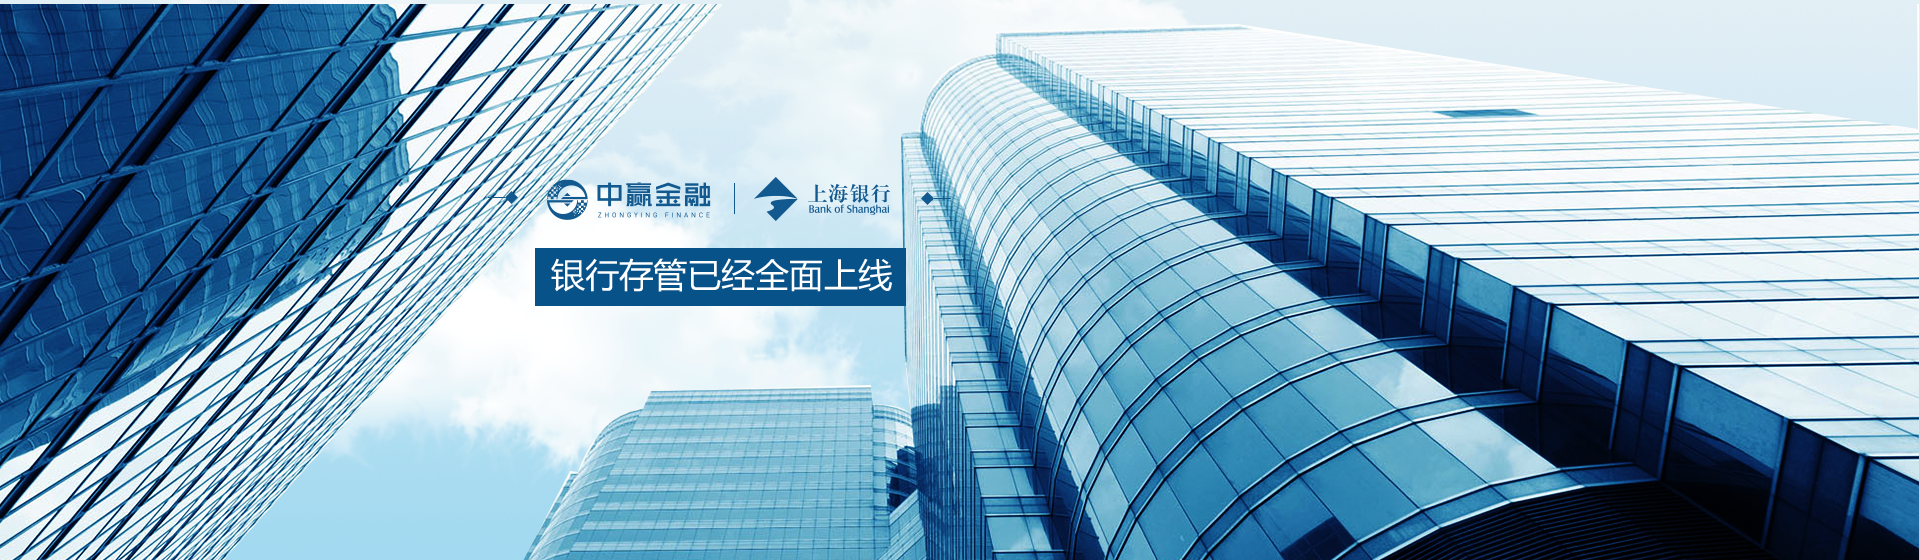
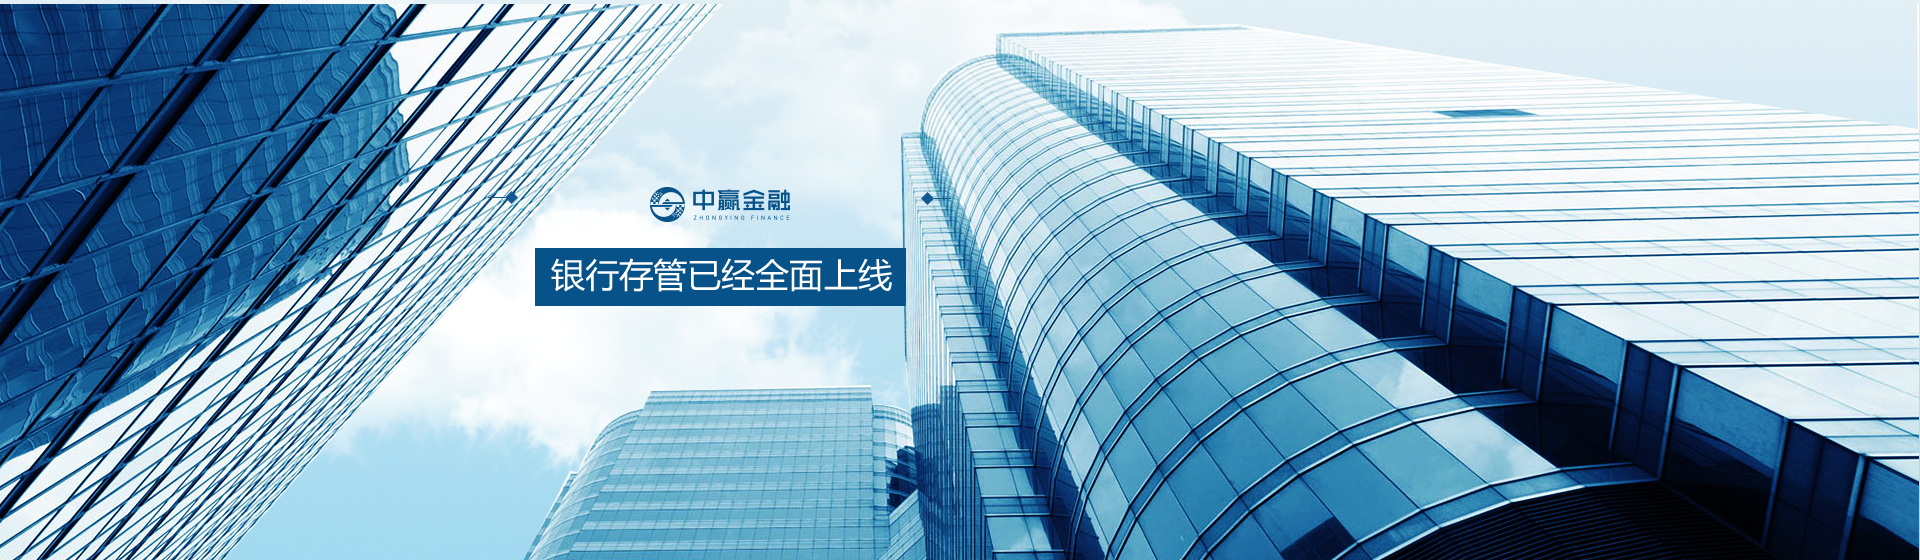
修改处理  上海银行

Changed region(s): [[0.2812, 0.3036, 0.4688, 0.3946]]

diff --git a/2.0_local_ZT_test/html/3/recharge.html b/2.0_local_ZT_test/html/3/recharge.html
@@ -105,7 +105,7 @@
 					<div>温馨提示</div>
 					<p>1、为了您的账户安全，请在充值前开通存管账户、设置交易密码。</p>
 					<p>2、代扣充值需要绑定银行卡，该卡可用于充值和提现。</p>
-					<p>3、您充值的资金会进入上海银行存管账户。</p>
+					<p>3、您充值的资金会进入银行存管账户。</p>
 					<p>4、请注意您的银行卡充值限制，以免造成不便。</p>
 					<p>5、禁止洗钱、信用卡套现、虚假交易等行为，一经发现并确认，将终止该账户的使用。</p>
 					<p>6、如果充值金额没有及时到账，请联系客服，400-088-0888。</p>
@@ -145,7 +145,7 @@
 					<div>温馨提示</div>
 					<p>1、为了您的账户安全，请在充值前开通存管账户、设置交易密码。</p>
 					<p>2、代扣充值需要绑定银行卡，该卡可用于充值和提现。</p>
-					<p>3、您充值的资金会进入上海银行存管账户。</p>
+					<p>3、您充值的资金会进入银行存管账户。</p>
 					<p>4、请注意您的银行卡充值限制，以免造成不便。</p>
 					<p>5、禁止洗钱、信用卡套现、虚假交易等行为，一经发现并确认，将终止该账户的使用。</p>
 					<p>6、如果充值金额没有及时到账，请联系客服，400-088-0888。</p>

diff --git a/2.0_local_ZT_test/js/3/changeCardNext.js b/2.0_local_ZT_test/js/3/changeCardNext.js
@@ -12,12 +12,18 @@ $(function() {
 	var bankName = ['工商银行', '农业银行', '招商银行', '建设银行', '北京银行', '北京农村', '中国银行', '交通银行', '民生银行', '上海银行', '渤海银行', '光大银行', '兴业银行', '中信银行', '浙商银行', '广发银行', '东亚银行', '华夏银行', '杭州银行', '南京银行', '平安银行', '邮储银行', '深发银行', '浦发银行', '上海农村'];
 	$(".bankLogoForm").html("");
 	for(var i = 100; i < 125; i++) {
-		var ctc = '<div class="bankListLogo">' +
-			'	<img class="bankListImg" src="../../img/bank/color/' + bankArr[i - 100] + '.png" >' +
-			'	<p class="bankName">' + bankName[i - 100] + '</p>' +
-			'	<input name="bank_id_" type="radio" value="' + i + '" />';
-		$(".bankListDiv").append(ctc)
-	}
+		switch(i) {
+			case 108:
+				break;
+			default:
+				var ctc = '<div class="bankListLogo">' +
+					'	<img class="bankListImg" src="../../img/bank/color/' + bankArr[i - 100] + '.png" >' +
+					'	<p class="bankName">' + bankName[i - 100] + '</p>' +
+					'	<input name="bank_id_" type="radio" value="' + i + '" />';
+				$(".bankListDiv").append(ctc)
+				break;
+		}
+	};
 	$(".bankIputKeybtn").on("click", function() {
 		$(".bankList").slideDown(300);
 	});

diff --git a/2.0_local_ZT_test/html/3/securityCenter.html b/2.0_local_ZT_test/html/3/securityCenter.html
@@ -70,7 +70,7 @@
 				<div class="asList asList11">
 					<div>
 						<p>存管账户</p>
-						<p>中赢金融与上海银行合作资金存管</p>
+						<p>中赢金融与银行合作资金存管</p>
 					</div>
 					<div>未开通</div>
 					<div class="openSHaccount">立即开通</div>
@@ -136,7 +136,7 @@
 				<p class="planBidTiltle2"><span>开通存管账户</span> <button style="margin-left: 3.18rem;font-size: 0.4rem;" type="button" class="am-close am-close-spin">&times;</button></p>
 				<div class="autoThenderCenter">
 					<p>确认开通存管账户？</p>
-					<p>交易资金由上海银行全程存管，为保障您的账户资金安全，请设置存管账户交易密码。</p>
+					<p>交易资金由银行全程存管，为保障您的账户资金安全，请设置存管账户交易密码。</p>
 					<div class="autoThenderBtn">
 						<p class="closeP">再想想</p>
 						<p>

diff --git a/2.0_local_ZT_test/html/4/messageAPutOnRecord.html b/2.0_local_ZT_test/html/4/messageAPutOnRecord.html
@@ -50,7 +50,7 @@
 	</div>
 	<div class="messageABasicWrap clearfix">
 		<div class="messageALeft messageALeftRT">客户资金存管情况：</div>
-		<div class="messageARight messageARightRT">中赢金融已于2017年8月完成与上海银行股份有限公司存管系统的对接，宣告资金存管系统正式上线。存管上线后，资金更安全，投资更安心。</div>
+		<div class="messageARight messageARightRT">中赢金融已于2017年8月完成与银行存管系统的对接，宣告资金存管系统正式上线。存管上线后，资金更安全，投资更安心。</div>
 	</div>
 	<div class="messageABasicWrap clearfix">
 		<div class="messageALeft messageALeftRT">公安机关核发的网站备案编号：</div>

diff --git a/2.0_local_ZT_test/js/3/securityCenter.js b/2.0_local_ZT_test/js/3/securityCenter.js
@@ -25,7 +25,7 @@ $(function() {
 			$(".asList3").html("");
 			var ctc1 = '<div>' +
 				'	<p>存管账户</p>' +
-				'	<p>中赢金融与上海银行合作资金存管</p>' +
+				'	<p>中赢金融与银行合作资金存管</p>' +
 				'</div>' +
 				'<div>未开通</div>' +
 				'<div class="openSHaccount">立即开通</div>';
@@ -76,7 +76,7 @@ $(function() {
 						$(".asList3").html("");
 						var ctc1 = '<div>' +
 							'	<p>存管账户</p>' +
-							'	<p>中赢金融与上海银行合作资金存管</p>' +
+							'	<p>中赢金融与银行合作资金存管</p>' +
 							'</div>' +
 							'<div>已开通</div>' +
 							'<div>' + data.model.UsrCustId + '</div>';

diff --git a/2.0_local_ZT_test/html/2/bidStandardDetial.html b/2.0_local_ZT_test/html/2/bidStandardDetial.html
@@ -226,7 +226,7 @@
 				<p class="planBidTiltle2"><span>开通存管账户</span> <button style="margin-left: 3.18rem;font-size: 0.4rem;" type="button" class="am-close am-close-spin">&times;</button></p>
 				<div class="autoThenderCenter">
 					<p>确认开通存管账户？</p>
-					<p>交易资金由上海银行全程存管，为保障您的账户资金安全，请设置存管账户交易密码。</p>
+					<p>交易资金由银行全程存管，为保障您的账户资金安全，请设置存管账户交易密码。</p>
 					<div class="autoThenderBtn">
 						<p class="closeP">再想想</p>
 						<p>

diff --git a/2.0_local_ZT_test/html/2/planBidDetial.html b/2.0_local_ZT_test/html/2/planBidDetial.html
@@ -298,7 +298,7 @@
 				<p class="planBidTiltle2"><span>开通存管账户</span> <button style="margin-left: 3.18rem;font-size: 0.4rem;" type="button" class="am-close am-close-spin">&times;</button></p>
 				<div class="autoThenderCenter">
 					<p>确认开通存管账户？</p>
-					<p>交易资金由上海银行全程存管，为保障您的账户资金安全，请设置存管账户交易密码。</p>
+					<p>交易资金由银行全程存管，为保障您的账户资金安全，请设置存管账户交易密码。</p>
 					<div class="autoThenderBtn">
 						<p class="closeP">再想想</p>
 						<p>

diff --git a/2.0_local_ZT_test/html/3/account.html b/2.0_local_ZT_test/html/3/account.html
@@ -145,7 +145,7 @@
 				<p class="planBidTiltle2"><span>开通存管账户</span> <button style="margin-left: 3.18rem;font-size: 0.4rem;" type="button" class="am-close am-close-spin">&times;</button></p>
 				<div class="autoThenderCenter">
 					<p>确认开通存管账户？</p>
-					<p>交易资金由上海银行全程存管，为保障您的账户资金安全，请设置存管账户交易密码。</p>
+					<p>交易资金由银行全程存管，为保障您的账户资金安全，请设置存管账户交易密码。</p>
 					<div class="autoThenderBtn">
 						<p class="closeP">再想想</p>
 						<p>

diff --git a/2.0_local_ZT_test/html/3/bidRecordJHB.html b/2.0_local_ZT_test/html/3/bidRecordJHB.html
@@ -161,7 +161,7 @@
 				<p class="planBidTiltle2"><span>开通存管账户</span> <button style="margin-left: 3.18rem;font-size: 0.4rem;" type="button" class="am-close am-close-spin">&times;</button></p>
 				<div class="autoThenderCenter">
 					<p>确认开通存管账户？</p>
-					<p>交易资金由上海银行全程存管，为保障您的账户资金安全，请设置存管账户交易密码。</p>
+					<p>交易资金由银行全程存管，为保障您的账户资金安全，请设置存管账户交易密码。</p>
 					<div class="autoThenderBtn">
 						<p class="closeP">再想想</p>
 						<p>

diff --git a/2.0_local_ZT_test/html/3/bidRecordSB.html b/2.0_local_ZT_test/html/3/bidRecordSB.html
@@ -119,7 +119,7 @@
 				<p class="planBidTiltle2"><span>开通存管账户</span> <button style="margin-left: 3.18rem;font-size: 0.4rem;" type="button" class="am-close am-close-spin">&times;</button></p>
 				<div class="autoThenderCenter">
 					<p>确认开通存管账户？</p>
-					<p>交易资金由上海银行全程存管，为保障您的账户资金安全，请设置存管账户交易密码。</p>
+					<p>交易资金由银行全程存管，为保障您的账户资金安全，请设置存管账户交易密码。</p>
 					<div class="autoThenderBtn">
 						<p class="closeP">再想想</p>
 						<p>

diff --git a/2.0_local_ZT_test/html/3/bankCardResults.html b/2.0_local_ZT_test/html/3/bankCardResults.html
@@ -43,7 +43,7 @@
 			<p>
 				<img src="../../img/assets/success.png" />
 			</p>
-			<p>上海银行存管账户开通成功</p>
+			<p>银行存管账户开通成功</p>
 			<p>立即完成充值，出借更方便哦！</p>
 			<p>
 				<a href="recharge.html">前往充值</a>
@@ -57,7 +57,7 @@
 			<p>
 				<img src="../../img/assets/falut.png" />
 			</p>
-			<p>上海银行存管账户开通失败</p>
+			<p>银行存管账户开通失败</p>
 			<p style="color: #FF0A28;">用户信息不匹配,请稍后重试</p>
 			<p>
 				<a href="account.html">立即返回</a>

diff --git a/2.0_local_ZT_test/html/3/changeCardNext.html b/2.0_local_ZT_test/html/3/changeCardNext.html
@@ -44,9 +44,9 @@
 		<div class="section bankCardSection">
 			<p class="planBidTiltle2"><span>绑定新的银行卡</span></p>
 			<p class="bankLogo">
-				<img src="../../img/assets/bankCardLogo.png" />
+				<img src="../../img/1LoginRegister/logo_haoli.png" />
 			</p>
-			<p class="bankTip">中赢金融联手上海银行</p>
+			<p class="bankTip">中赢金融联手银行</p>
 			<div class="bankIput">
 				<div class="bankIputName">
 					姓名
